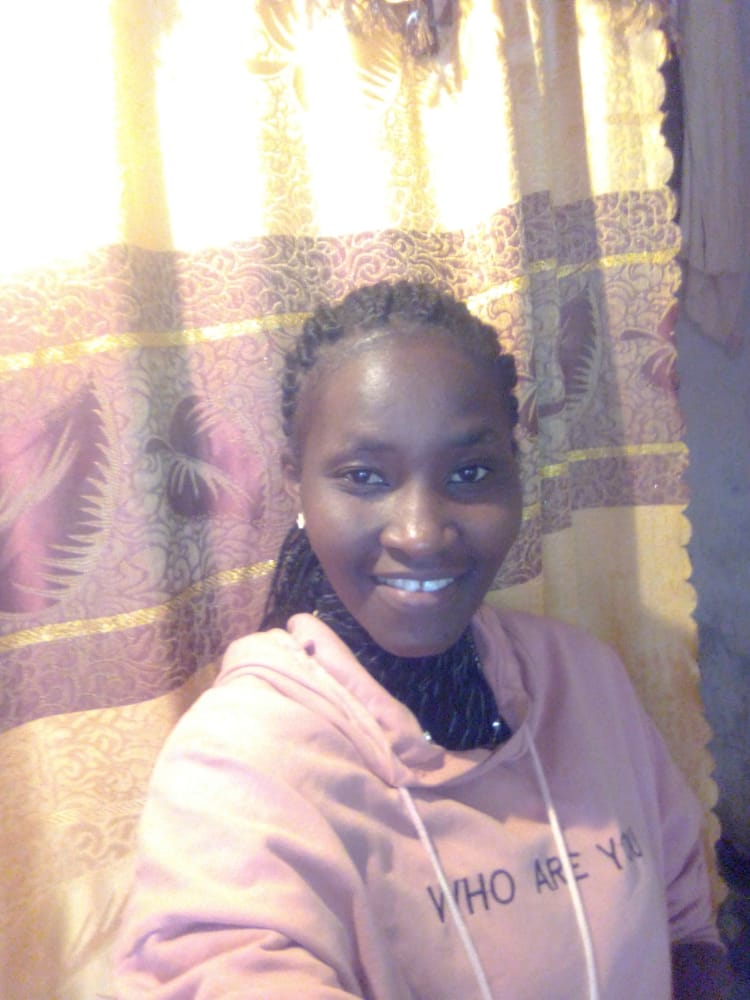
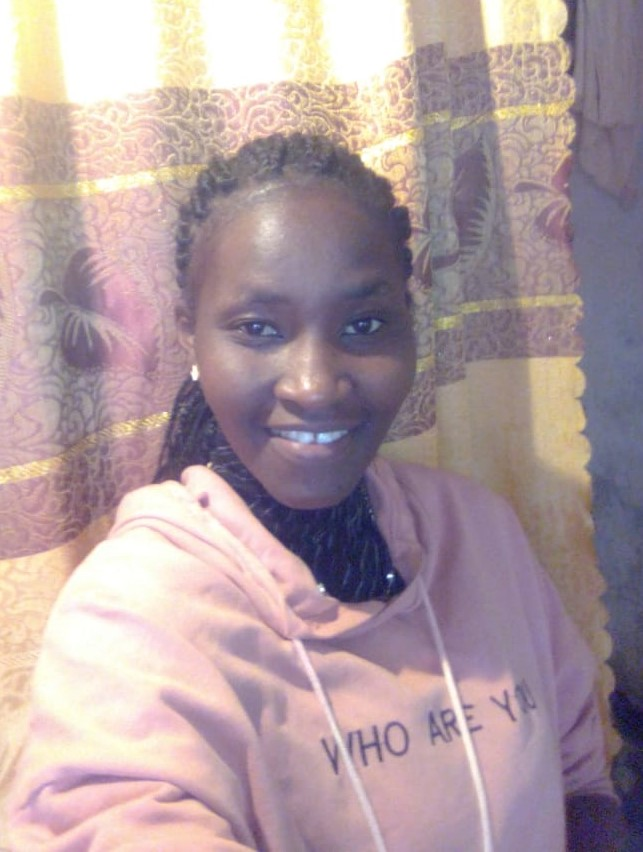
very minor edit for flow previewed add to author file image paths folder rename

diff --git a/content/articles/how-to-send-code-and-verify-email-using-tuya-api/index.md b/content/articles/how-to-send-code-and-verify-email-using-tuya-api/index.md
@@ -2,16 +2,16 @@
 layout: engineering-education
 status: publish
 published: true
-url: /how-to-verify-emails-using-tuya-apis/
-title: How to Verify Emails Using Tuya APIs.
+url: /how-to-send-code-and-verify-email-using-tuya-api/
+title: How to Verify Emails using Tuya APIs
 description: This article will explain how to use the Tuya Mail API to send a random code to a user's email address and verify it using a Node app.
 author: jedidah-mwangi
-date: 2022-04-20T00:00:00-13:30
-topics: [Languages]
+date: 2022-05-19T00:00:00-13:30
+topics: [API]
 excerpt_separator: <!--more-->
 images:
 
-  - url: /engineering-education/how-to-verify-emails-using-tuya-apis/hero.jpg
+  - url: /engineering-education/how-to-send-code-and-verify-email-using-tuya-api/hero.jpg
     alt: How to Verify Emails Using Tuya APIs.
 ---
 Email is still one of the most preferred and effective communication channels with most people checking their emails daily. Use of email validation is still the most effective way of preventing spamming. Email verification helps to prevent fraud and increases the ability to validate a sender.
@@ -42,19 +42,19 @@ First, we need to create an account on the [Tuya Cloud](https://developer.tuya.c
 
 Fill out the form to register your project. For the best experience, choose the **Data Center** geographically closest to you. Then select **Create**:
 
-![create_cloud_project](/engineering-education/how-to-verify-emails-using-tuya-apis/create_cloud_project.png)
+![create_cloud_project](/engineering-education/how-to-send-code-and-verify-email-using-tuya-api/create_cloud_project.png)
 
 The IoT Core and Authorization options will be shown by default in the **Configuration Wizard** window under **Selected API Services**. Choose **Email Service Trial Version API** from the **Select API Services** list, and then click **Authorize** to complete the process:
 
-![configuration_wizard](/engineering-education/how-to-verify-emails-using-tuya-apis/configuration_wizard.png)
+![configuration_wizard](/engineering-education/how-to-send-code-and-verify-email-using-tuya-api/configuration_wizard.png)
 
 Fill in the details of your assets in the next window:
 
-![project_configuration](/engineering-education/how-to-verify-emails-using-tuya-apis/project_configuration.png)
+![project_configuration](/engineering-education/how-to-send-code-and-verify-email-using-tuya-api/project_configuration.png)
 
 Your cloud project is now ready, and you'll get your **Access ID/Client ID** and **Access Secret/Client Secret**:
 
-![email_services](/engineering-education/how-to-verify-emails-using-tuya-apis/email_services.png)
+![email_services](/engineering-education/how-to-send-code-and-verify-email-using-tuya-api/email_services.png)
 
 From here, we can now set up our project locally.
 
@@ -63,7 +63,7 @@ We will have both a frontend and a backend/server in this project. The frontend 
 
 The backend will handle generating a random code for email verification and making a request to Tuya for sending the verification email. It will also be responsible for verifying the code too. We are generating the code in the server to prevent a user from knowing the generated code.
 
-### Folder Structure
+### Folder structure
 Choose a good name for your working directory and navigate to it. Assuming you've already installed [Node.js](https://nodejs.org/en/), run the following command to create a ` package.json` file for your project:
 
 ```bash
@@ -72,7 +72,7 @@ $ npm init -y
 
 The file structure for this project should look like this:
 
-```
+```bash
 ├── public
     ├── index.html
     ├── script.js
@@ -130,12 +130,12 @@ app.get("/", function (req, res) {
 
 Since clients retrieve static files from the server in their original form, we use the `express.static` middleware to serve our `index.html`.
 
-We use the `app.get` method to create a route for our frontend and handle the `GET` requests. The `res.sendFile` method will send the Html file to the `/` path. In order to show our `index.html` in our public folder, we will visit <http://localhost:8000> in the browser.
+We use the `app.get` method to create a route for our frontend and handle the `GET` requests. The `res.sendFile` method will send the HTML file to the `/` path. In order to show our `index.html` in our public folder, we will visit <http://localhost:8000> in the browser.
 
 ### Using the Email route
 Fill in all of the information to create a new `TuyaContext`. Enter our project's `accessKey` and `secretKey`. The `BaseUrl` should be chosen based on the locality:
 
-![baseUrl](/engineering-education/how-to-verify-emails-using-tuya-apis/baseUrl.jpg)
+![baseUrl](/engineering-education/how-to-send-code-and-verify-email-using-tuya-api/baseUrl.jpg)
 
 Let's now create a new `TuyaContext` by adding it to our `server.js` file:
 
@@ -148,9 +148,10 @@ app.post("/sendcode", async (req, res) => {
   });
 });
 ```
+
 > Note: Replace `CLIENT-ID-HERE` and `CLIENT-SECRET-HERE` with your own `accessKey` and `secretKey` from your Tuya Cloud project.
 
-To receive an email from the user (a frontend request), generate a random code, and ask Tuya to send a verification email, the POST method will be utilized. <http://localhost:8000/sendcode/> will be the URL for emails sent from your local machine.
+To receive an email from the user (a frontend request), generate a random code snippet, and ask Tuya to send a verification email, the POST method will be utilized. <http://localhost:8000/sendcode/> will be the URL for emails sent from your local machine.
 
 ### Random code generation
 To access the verification code to both the generator and verification route, we need to declare it as a global variable. Let's declare a variable `verificationCode` in our `server.js` file.
@@ -172,7 +173,6 @@ if (verificationCode < 1000) {
 ```
 
 ### Sending email using Tuya
-
 The `tuyaContext.request` method can be used to make a request, which we can save in a data variable. The request should be a POST request, and the route is our API endpoint, which is `/v1.0/iot-03/messages/mails/actions/push`:
 
 ```javascript
@@ -189,13 +189,12 @@ const data = await tuyaContext.request({
 ```
 
 Let's look at the parameters included in the request body:
-
 - `to_address`: It's the recipient's email address here. We'll get an email as a result of the request we make from the frontend.
 - `reply_to_address`: Emails that the user may react to.
 - `template_id : MAIL_1624531323`: Tuya's pre-configured email template id for the correct code.
-- `template_param`:The email field. Our code will be included in the `verificationCode: ${verificationCode}` parameter.
+- `template_param`: The email field. Our code will be included in the `verificationCode: ${verificationCode}` parameter.
 
-### Route for verifying the code:
+### Route for verifying the code
 Comparing the user-entered code to the code we provide is a simple operation. When making a request to the backend, the verification code will be included in the body:
 
 ```javascript
@@ -247,9 +246,9 @@ Let's include the following code in our `index.html` file:
 
 The `sendCode()` function will be called when the user clicks the `Send Code` button. The `verifyCode()` function will be called when the user clicks the `Verify Code` button. The `sendCode()` function will send a request to the backend to send a code to the user's email. The `verifyCode()` function will send a request to the backend to check the code.
 
-This is how our frontend will look like:
+This is what our frontend will look like:
 
-![frontend](/engineering-education/how-to-verify-emails-using-tuya-apis/frontend.png)
+![frontend](/engineering-education/how-to-send-code-and-verify-email-using-tuya-api/frontend.png)
 
 ### Verifying the code
 With the email address provided in the body of the request, the `sendCode()` method will contact our server. A POST request will be made since it includes a body. We will use `json.stringify()`, to turn the body into JSON, which is what the server can read.
@@ -298,7 +297,7 @@ const verifyCode = () => {
 };
 ```
 
-Run the server by running the command:
+Run the server by running the command below:
 
 ```bash
 $ node server.js
@@ -306,11 +305,11 @@ $ node server.js
 
 On <http://localhost:8000>, enter your email and click `send email`. Tuya API will send the code to the supplied email address:
 
-![verification code](/engineering-education/how-to-verify-emails-using-tuya-apis/verification-code.png)
+![verification code](/engineering-education/how-to-send-code-and-verify-email-using-tuya-api/verification-code.png)
 
 Once the user enters the code and clicks `verify code`, it will automatically be verified:
 
-![verified-email](/engineering-education/how-to-verify-emails-using-tuya-apis/verified-email.jpeg)
+![verified-email](/engineering-education/how-to-send-code-and-verify-email-using-tuya-api/verified-email.jpeg)
 
 [This GitHub repo](https://github.com/Jeddy947/tuya-email-verification) contains the fully working code used in this tutorial. [Click here](https://tuya-email-verification.herokuapp.com/) to see the live version of this code deployed on Heroku.
 

diff --git a/content/authors/jedidah-mwangi/index.md b/content/authors/jedidah-mwangi/index.md
@@ -1,6 +1,7 @@
 ---
 title: Jedidah Mwangi
 type: authors
+images:
+  - url: /engineering-education/authors/jedidah-mwangi/avatar.jpeg 
 ---
-
 Jedidah is a computer science and engineering student at Embu University of Science and Technology. She is a full-stack web developer and an aspiring data scientist. She also has a passion for Artificial Intelligence and Machine Learning. Her hobbies are hiking and traveling.
